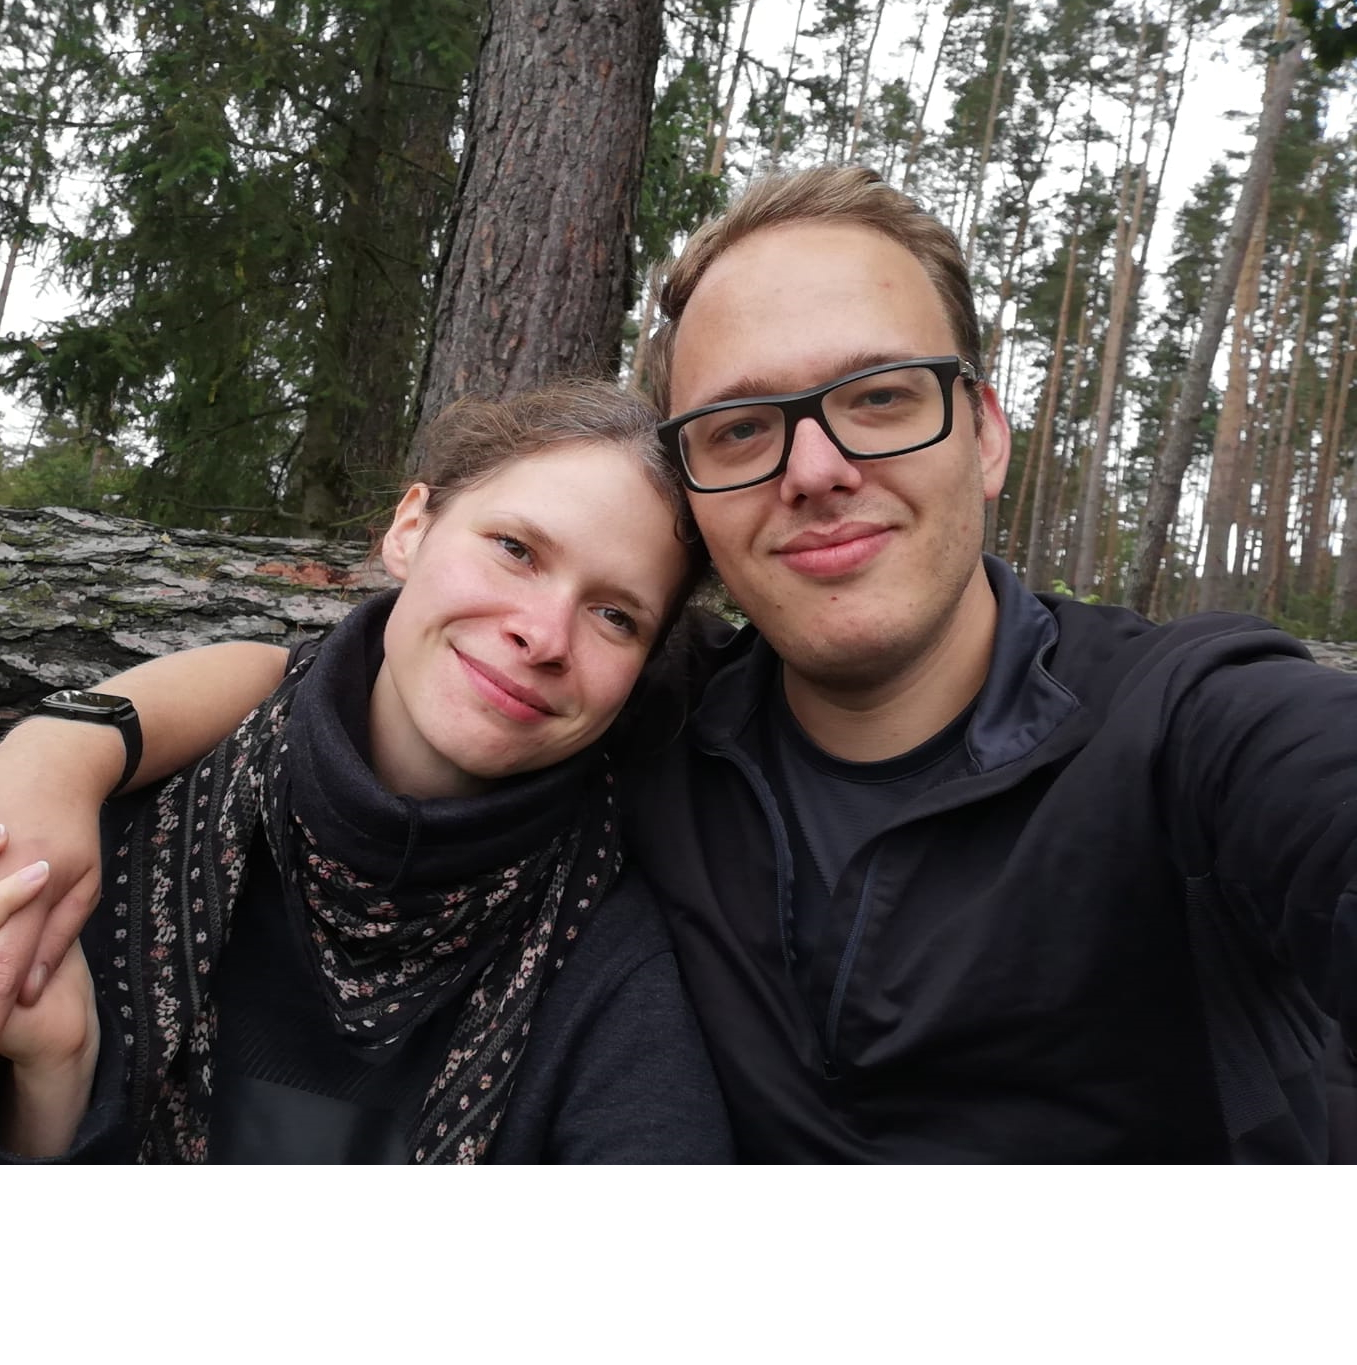
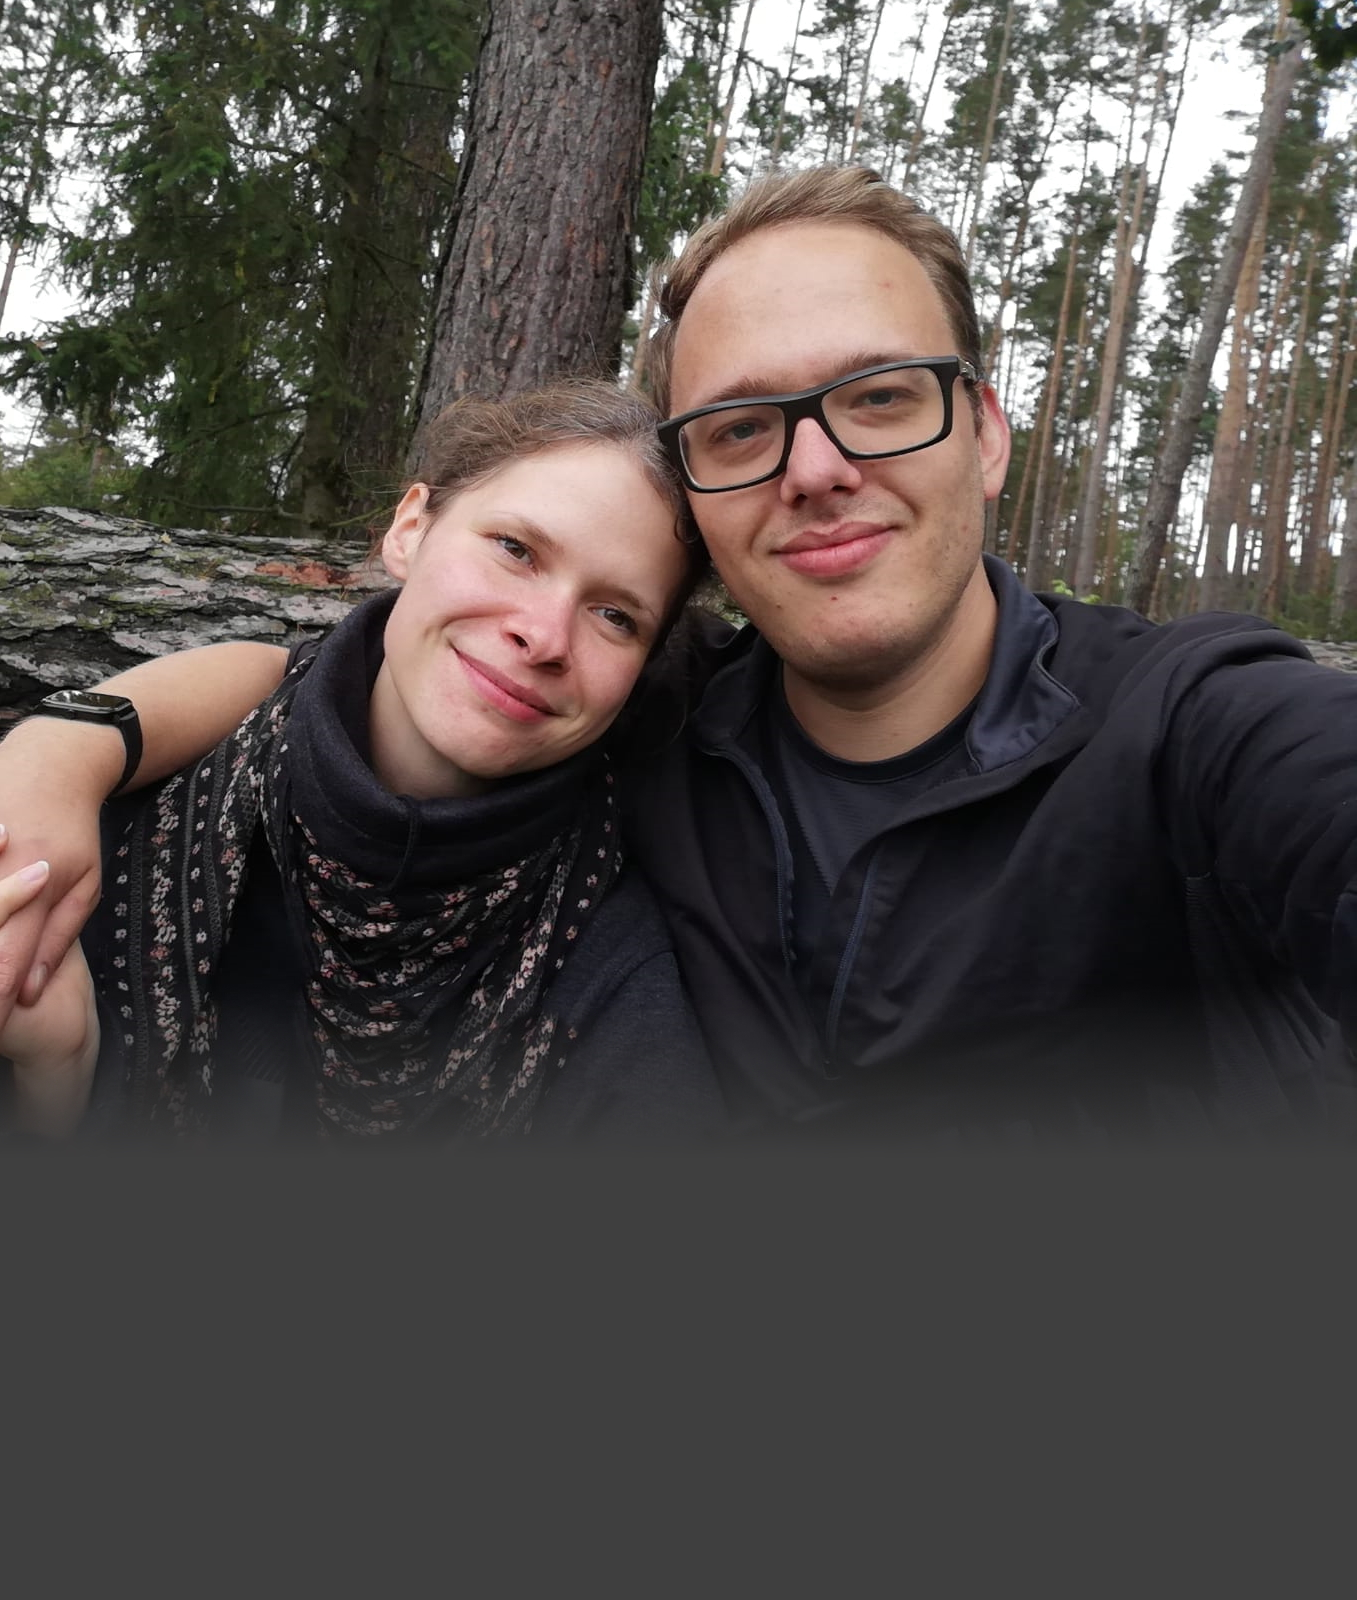
head exp

diff --git a/src/css/App.css b/src/css/App.css
@@ -2,7 +2,7 @@
 .app {
   display: grid;
   background-color: var(--primary-light);
-  grid-template-rows: 73vh;
+  grid-template-rows: 100vh;
 }
 
 body,
@@ -44,17 +44,17 @@ html,
   flex-direction: column;
   justify-content: flex-end;
   gap: 1em;
-  height: calc(100% - 25px);
+  height: 100%;
 }
 
 .app-header h2 {
-  font: 600 var(--xxl-font-size) Montserrat;
+  font: 600 var(--xl-font-size) Montserrat;
   color: #ffffff;
   text-align: center;
   text-shadow: 0 5px 8px rgba(0, 0, 0, 0.5);
   letter-spacing: 10px;
-  padding: 0;
-  margin: 0;
+  padding: .5em;
+  margin: 0 0;
 }
 
 .down-link {
@@ -63,6 +63,7 @@ html,
 }
 
 .down-link img {
+  margin: 3rem;
   color: #ffffff;
   width: 75px;
   height: 40px;

diff --git a/src/components/FancyTitle.js b/src/components/FancyTitle.js
@@ -1,12 +1,10 @@
 import React from 'react';
-// import Die from '../img/die.svg';
 
 const FancyTitle = props => {
     const { children } = props;
     return (
         <div className="fancy">
             <h2>{children}</h2>
-            {/* <img src={Die} alt="die-logo" /> */}
         </div>
     )
 };

diff --git a/src/components/Header.js b/src/components/Header.js
@@ -1,5 +1,5 @@
 import React from "react";
-import header from "../img/header_centered.jpg";
+import header from "../img/header_centered_offset.jpg";
 import DownButton from "./DownButton";
 
 export const Header = () => {

diff --git a/src/css/index.css b/src/css/index.css
@@ -94,7 +94,7 @@ code {
   --nav-height: 2.5rem;
 
   --xxl-font-size: 42px;
-  --xl-font-size: 29px;
+  --xl-font-size: 30px;
   --l-font-size: 22px;
   --m-font-size: 18px;
 
